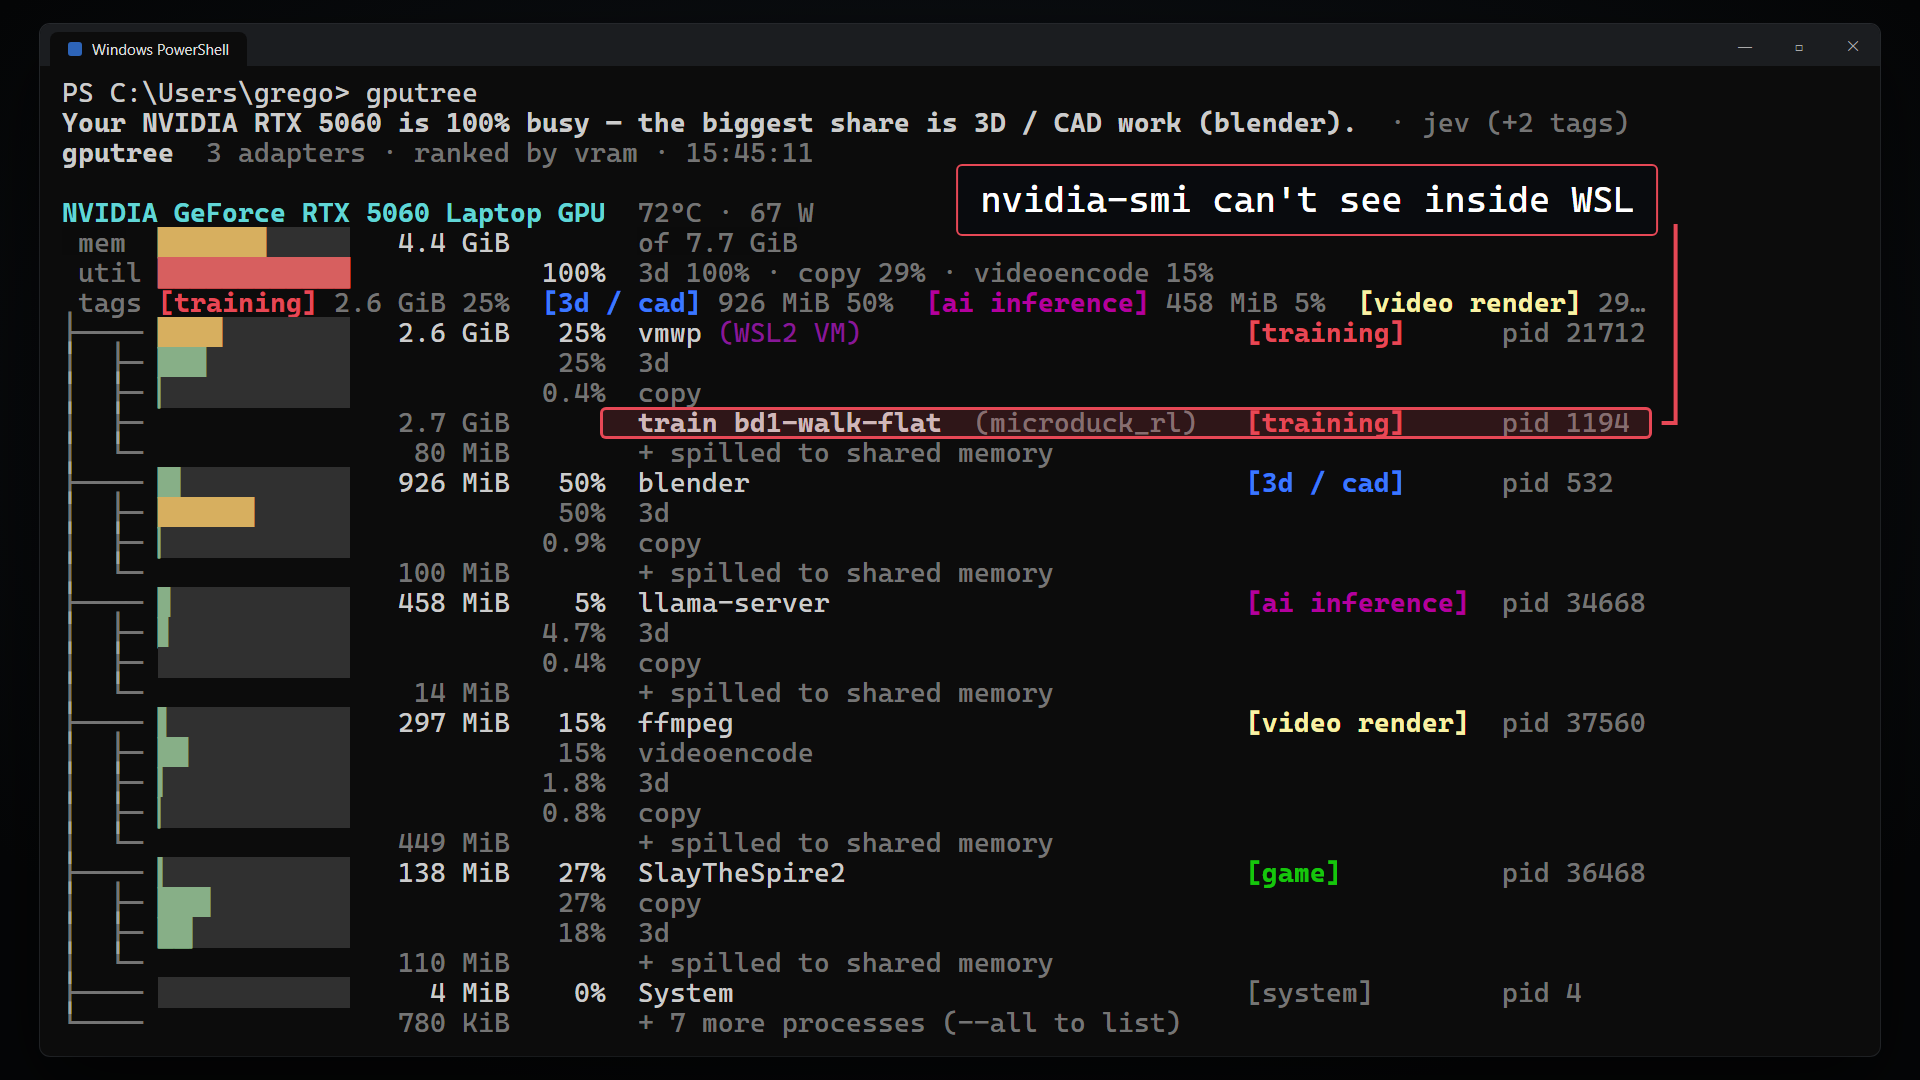
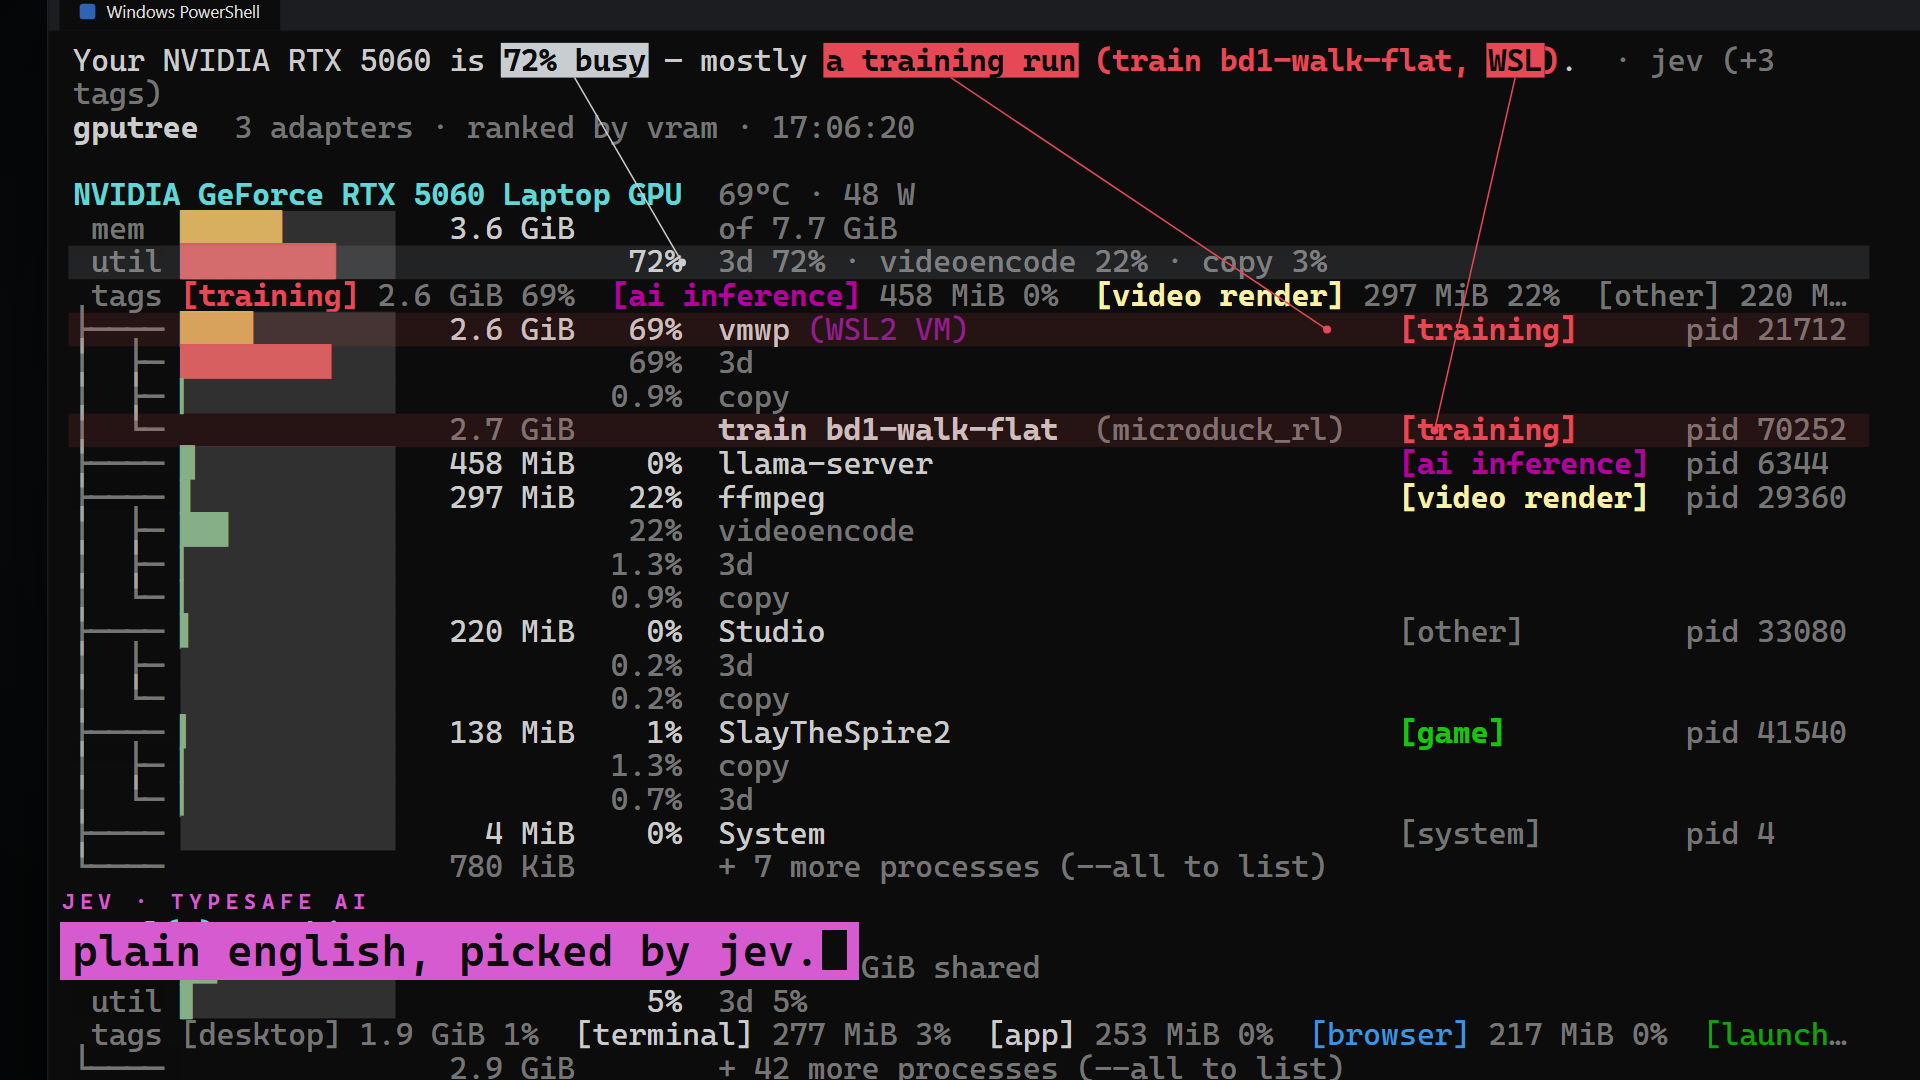
README: v2 launch GIF and poster
Recaptured at 100x40 with the folded tree: first frame 21 ms, Jev's
headline about the training run with its phrases picked out and traced
to the rows that prove them.

diff --git a/README.md b/README.md
@@ -1,6 +1,6 @@
 # gputree
 
-![gputree: the tree draws in 27 ms, then Jev writes the headline, then -w .5 goes live](assets/launch/gputree-readme.gif)
+![gputree: first frame in 21 ms, then Jev's plain-English headline, with its key phrases traced back to the rows that prove them](assets/launch/gputree-readme.gif)
 
 What is using your GPUs, as a tree — adapter, then process, then engine, and
 for WSL2 the Linux processes inside the VM — with one plain-English sentence on
